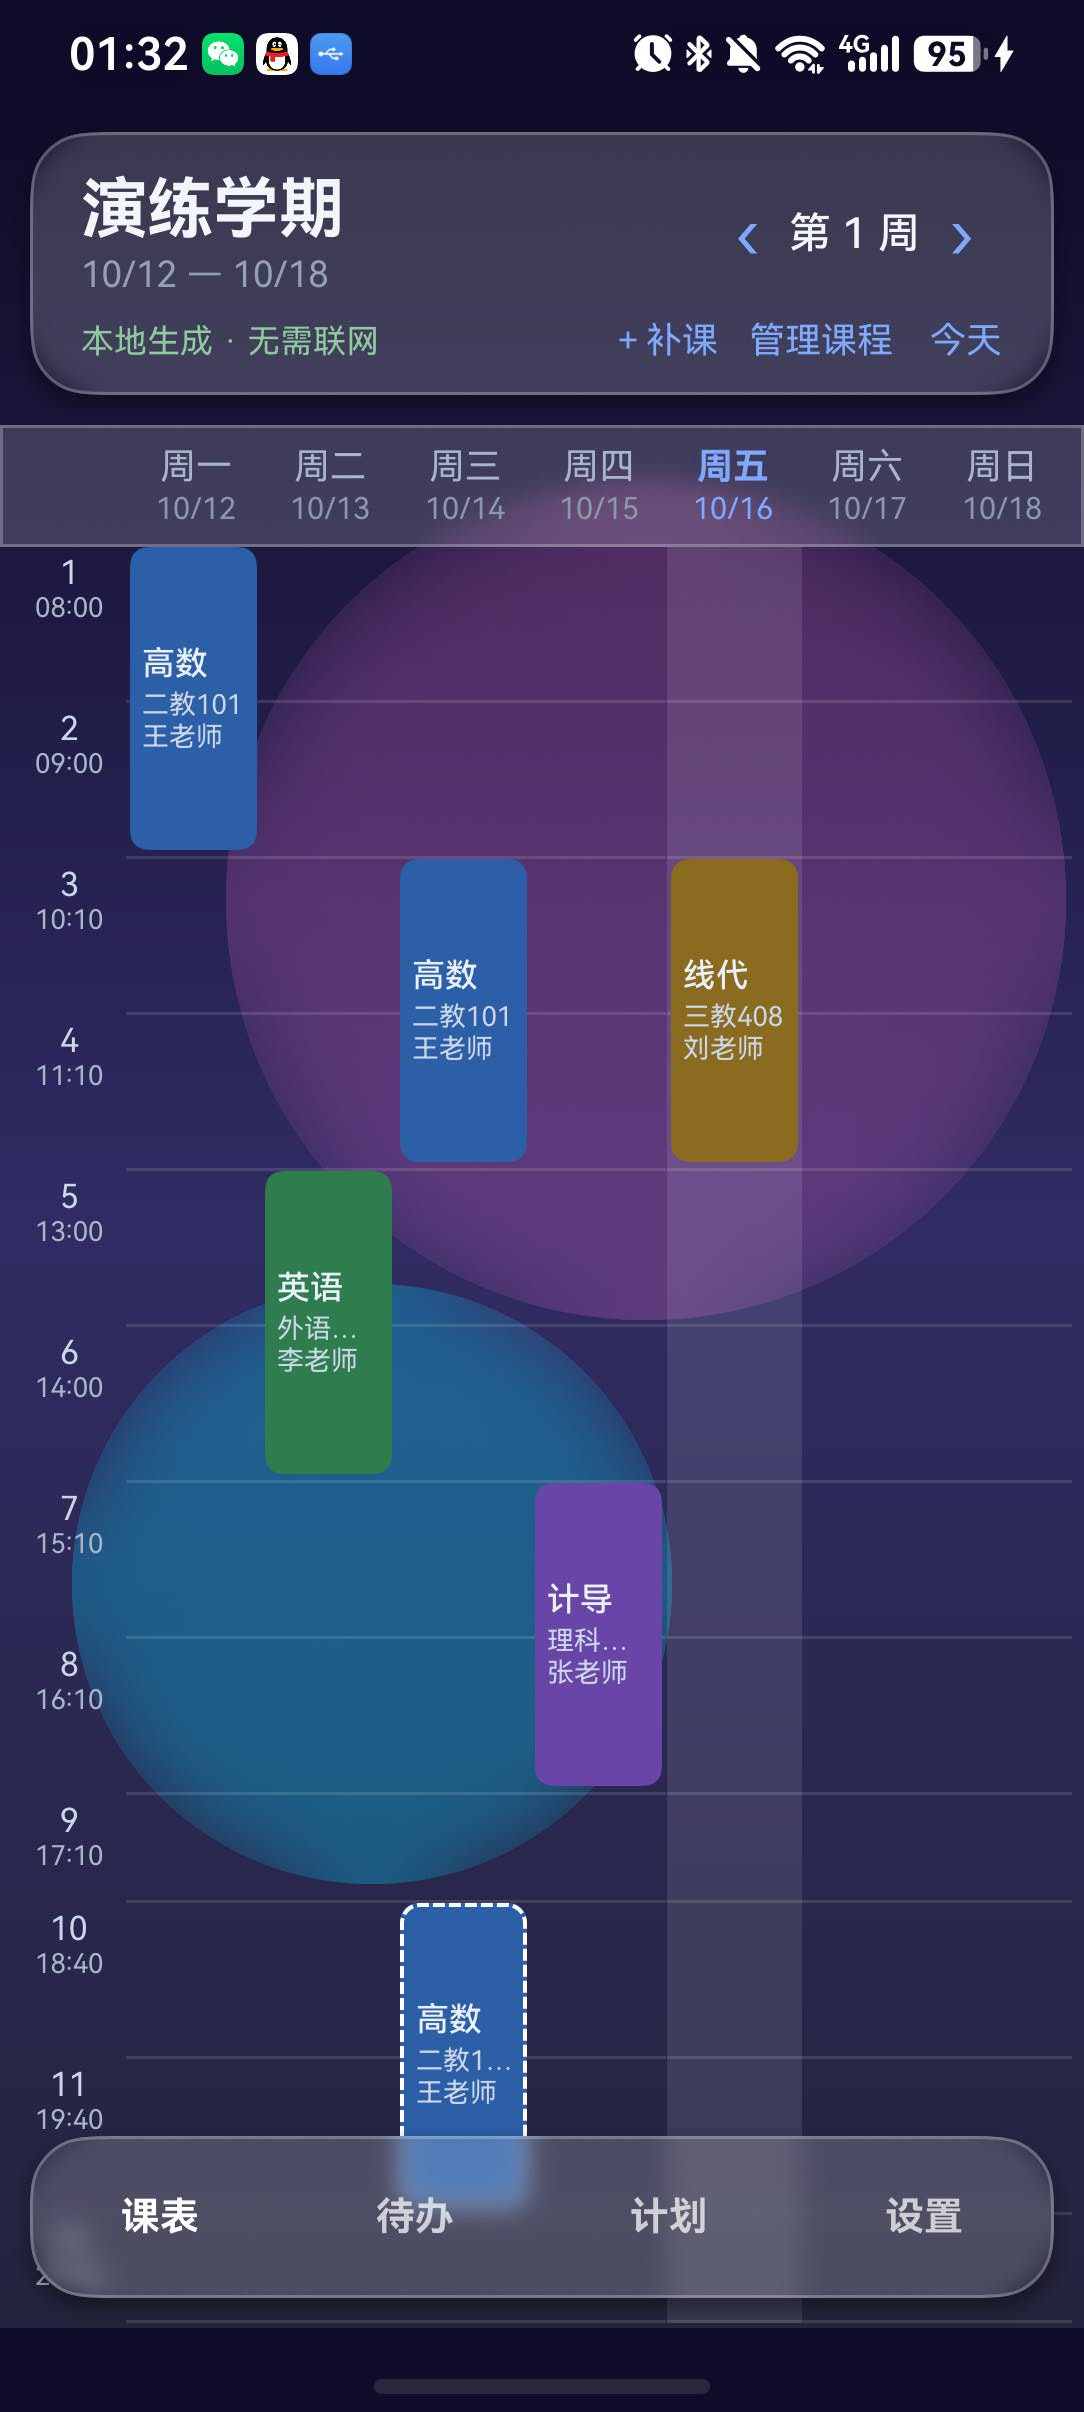
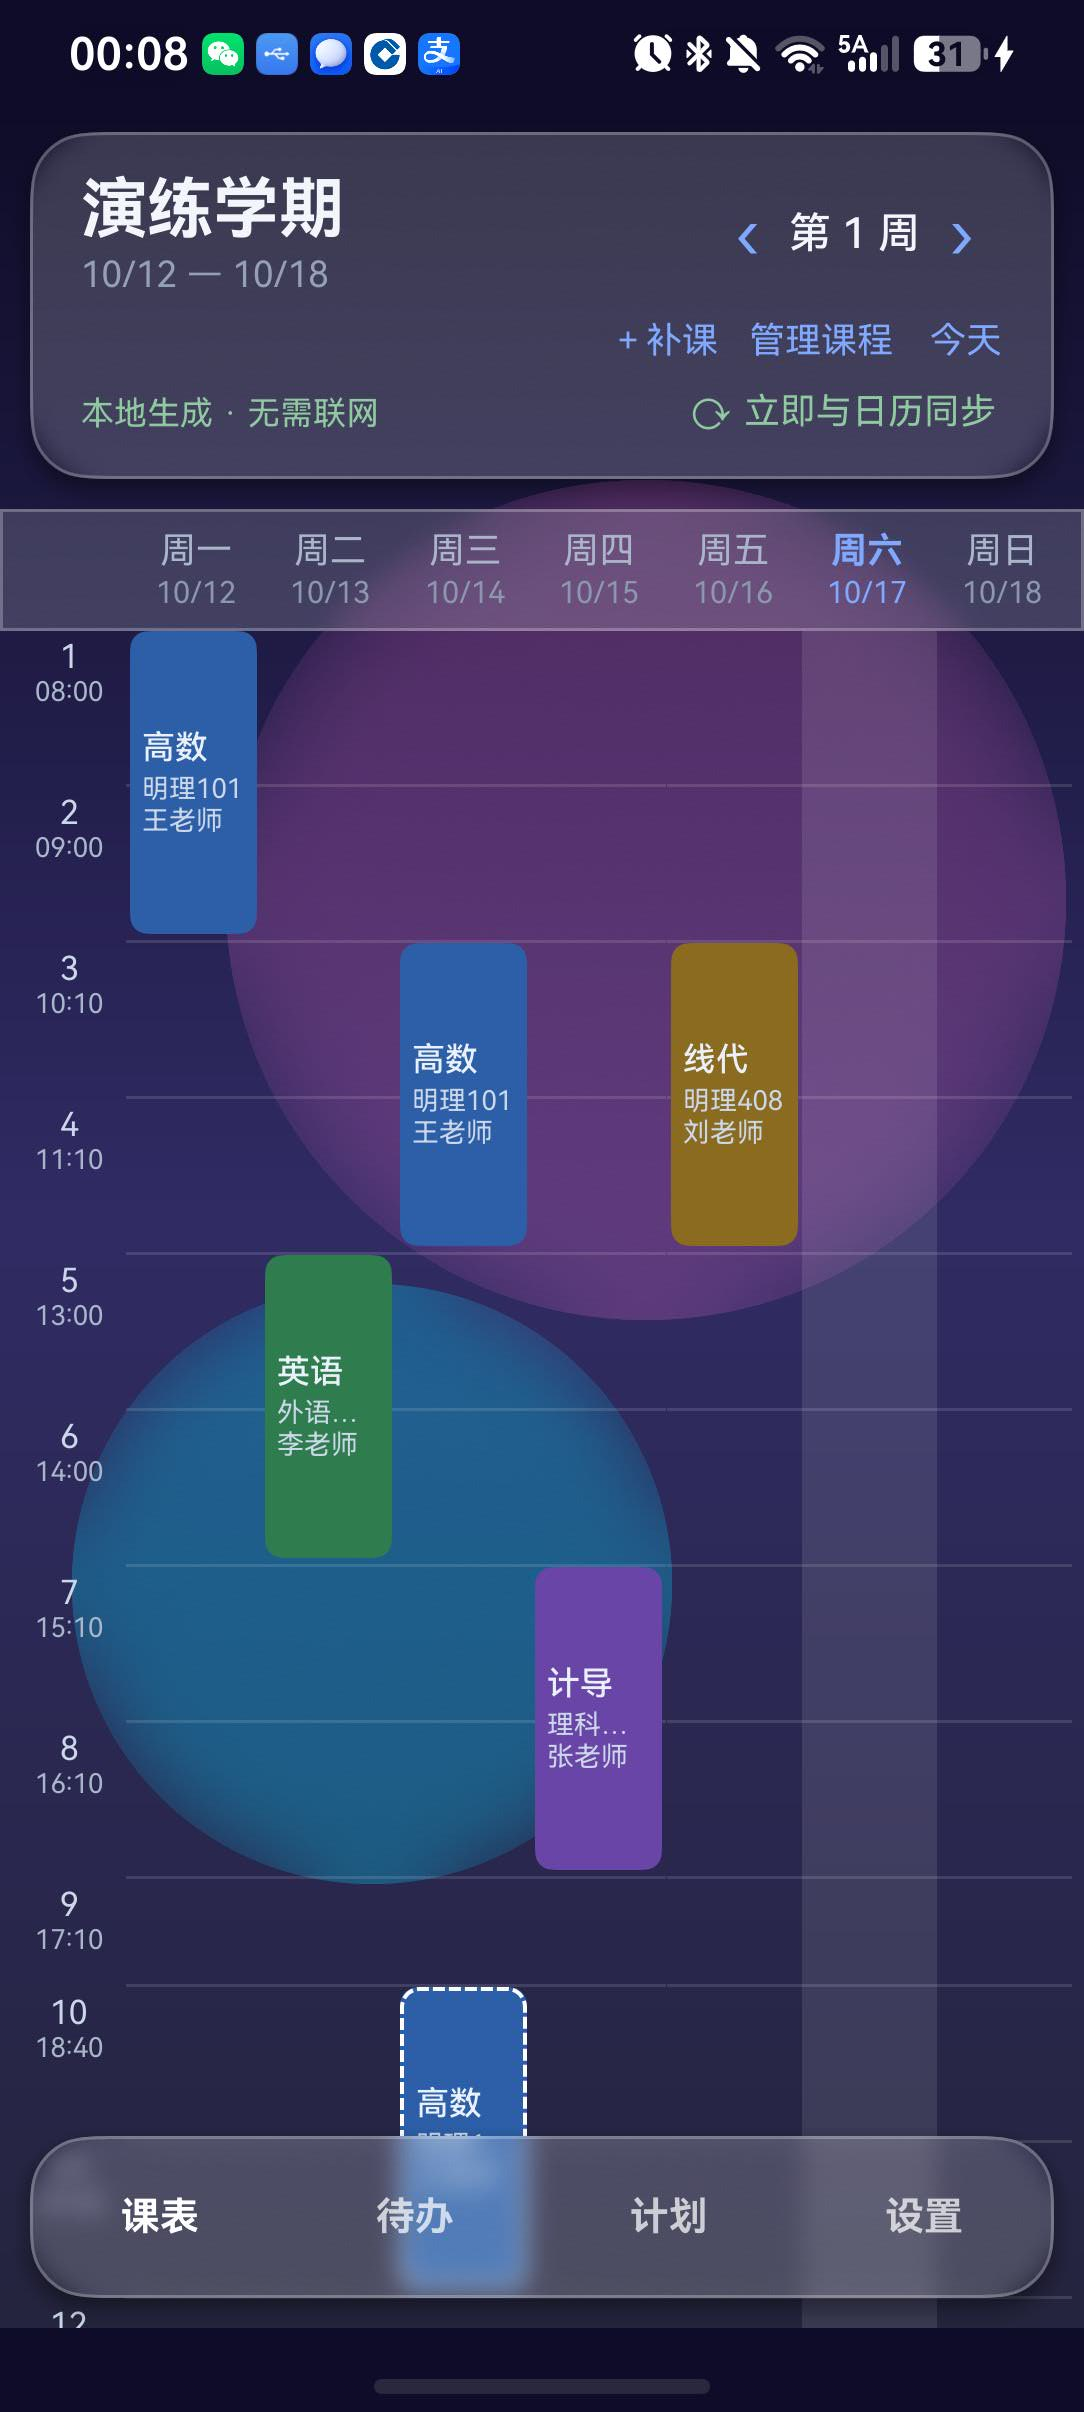
README 截图刷新：01 重拍（含页头「立即与日历同步」）+ 新增 09-sync（日历同步卡片）
- docs/manual/01-timetable.jpg：重拍。页头第三行现在是「本地生成 · 无需联网 + ⟳ 立即与日历同步」。
- docs/manual/09-sync.jpg（新）：设置页的「提醒 + 日历同步」两张卡（含 5/10/15/30/60 档位）。
  README §7 表格后引用它。
- GuideRepo.ets：演示数据的教室名 教学楼101/408 → 明理101/408（6 字在课表格子里被截成「教学…」）。
- HANDOFF §35：这轮隐私清除（重写 git 历史）的全程 + 截图补丁清单 + /bin/sh 是 dash 那个坑。
- 截图补丁（隐藏引导条 / 不用用户壁纸）已全部还原，git diff 只剩 GuideRepo 那 2 行；
  手机上是重新构建并安装的干净版本。

diff --git a/README.md b/README.md
@@ -220,6 +220,12 @@
 | **新手引导** | 进「演练」（见第 6 节） |
 | **关于** | 版本号 + **隐私政策**（应用内可读全文） |
 
+再往下一段就是**提醒**和**日历同步**这两张卡：
+
+![日历同步](docs/manual/09-sync.jpg)
+
+> 截图里的 `10 分钟` 就是默认值。页头那个「⟳ 立即与日历同步」随时可以手动来一次。
+
 ---
 
 ## 8. 数据、隐私与备份
